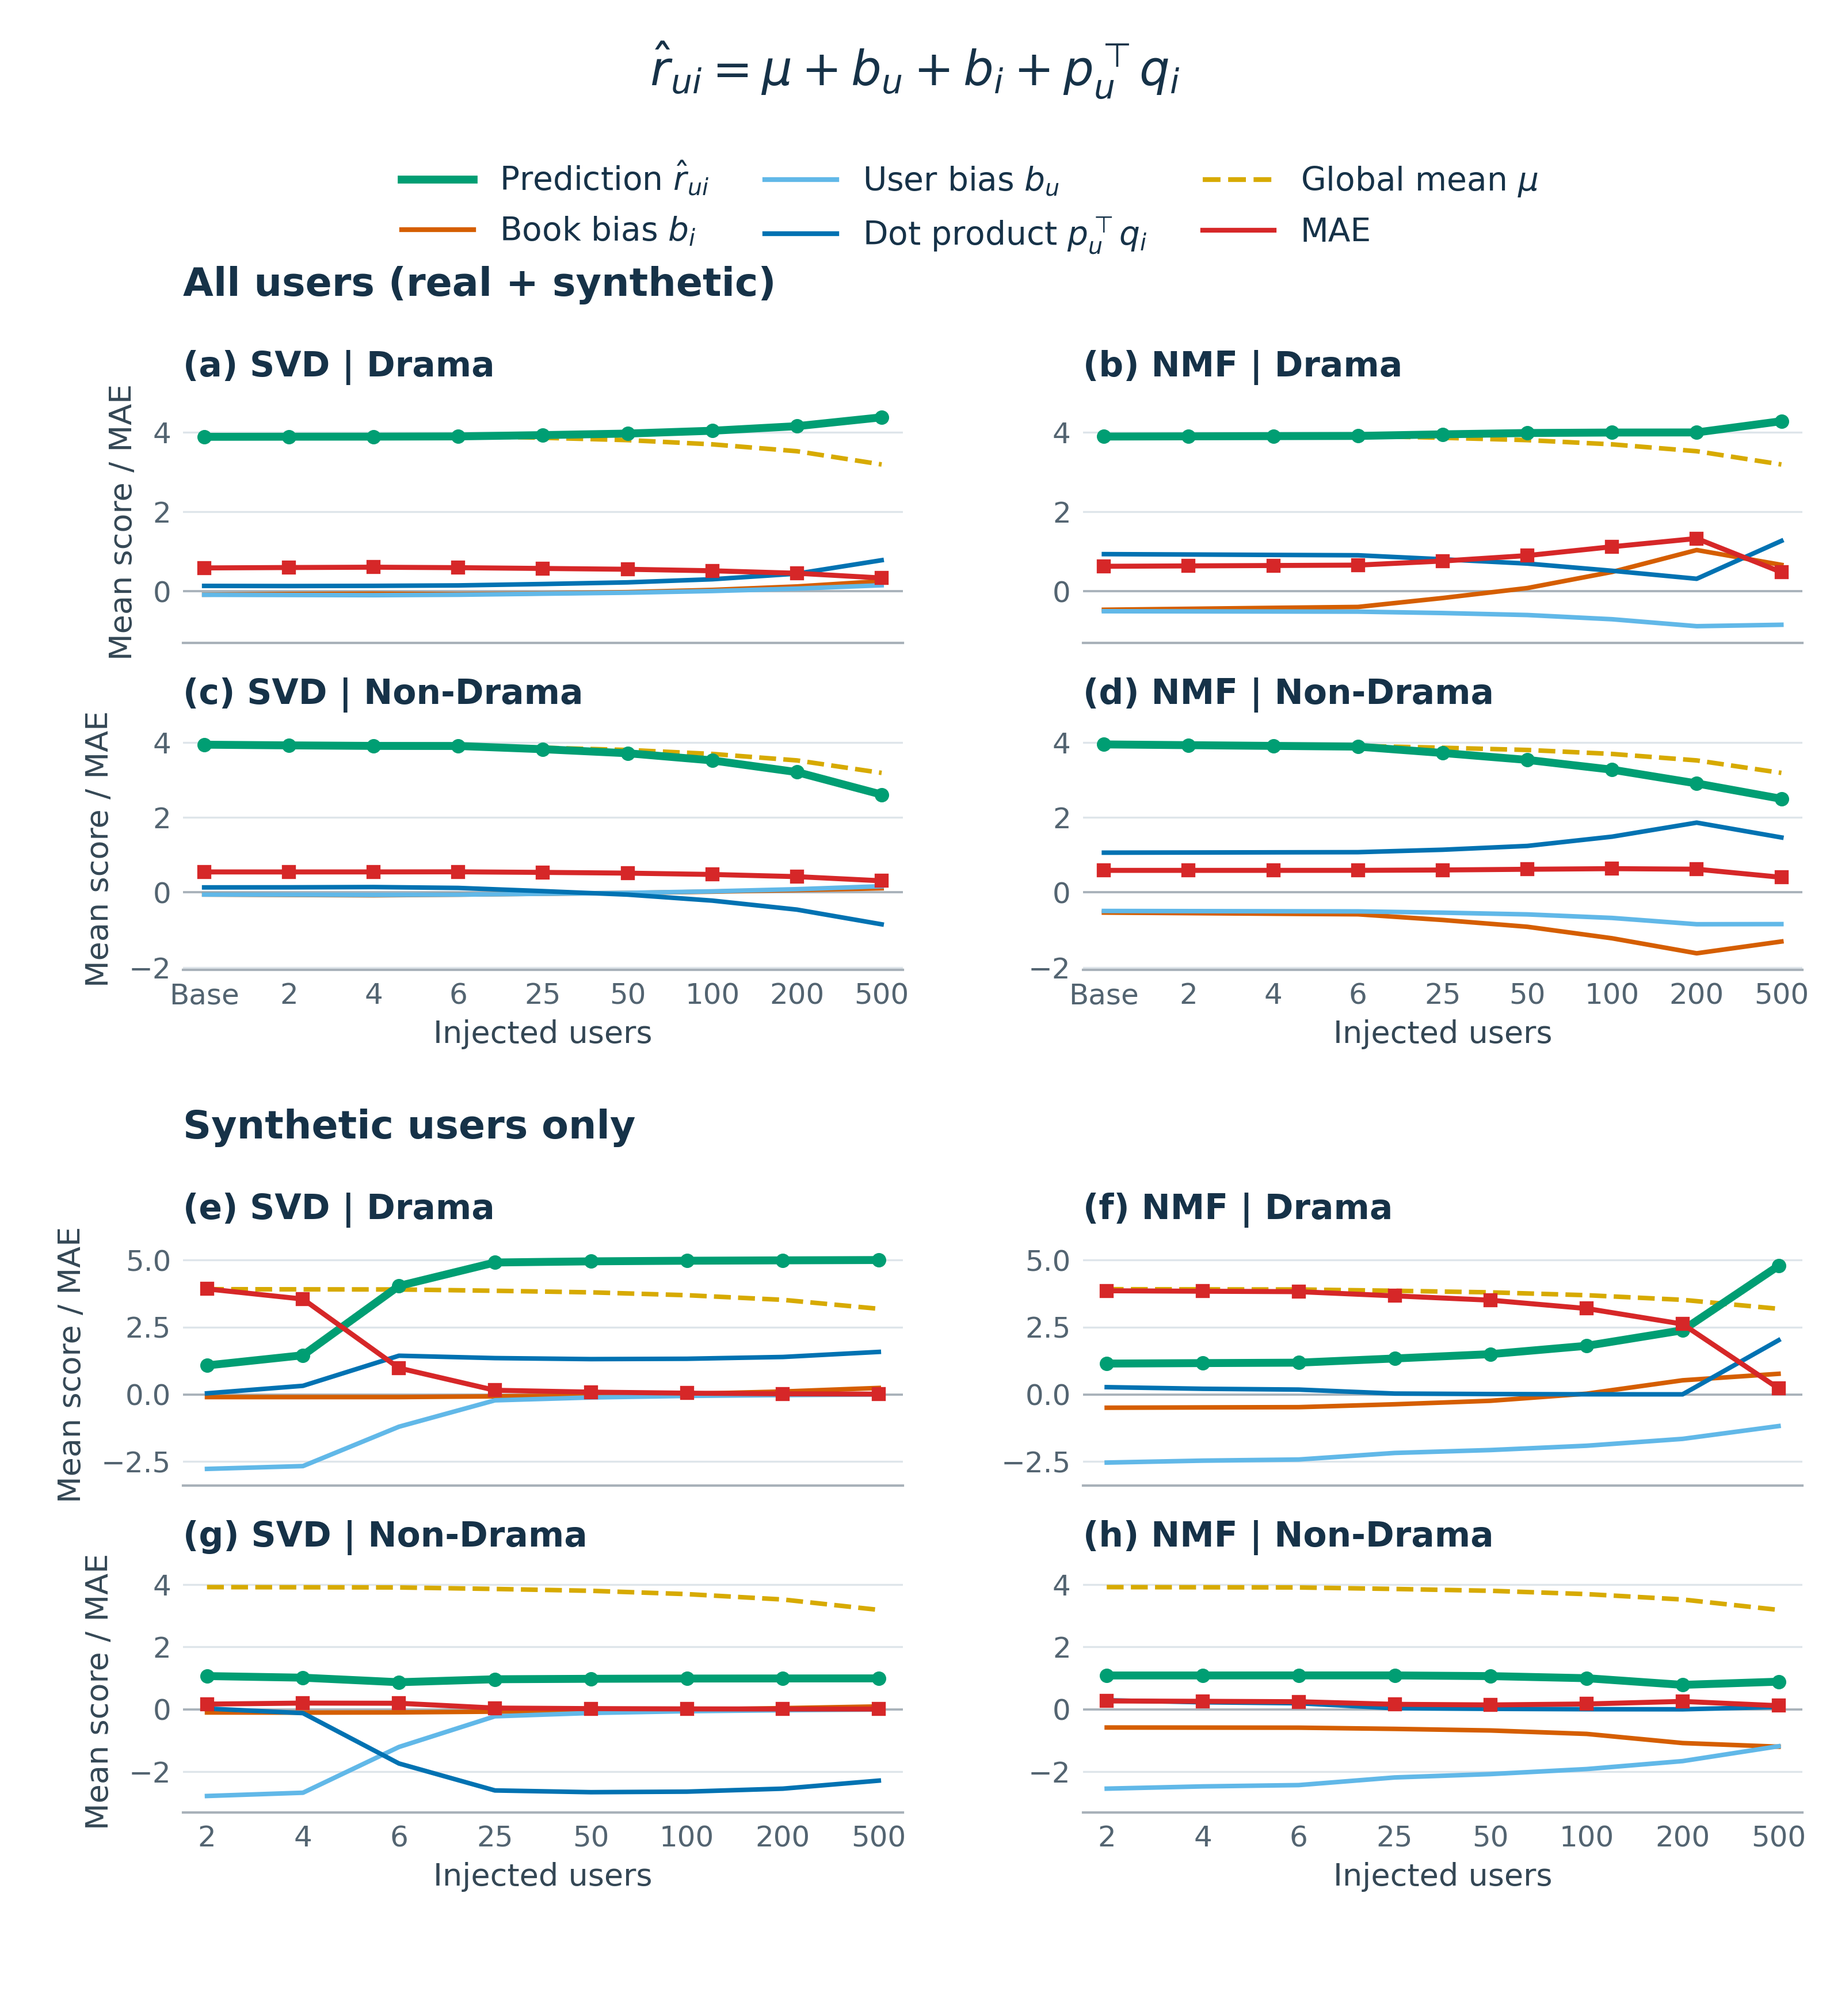
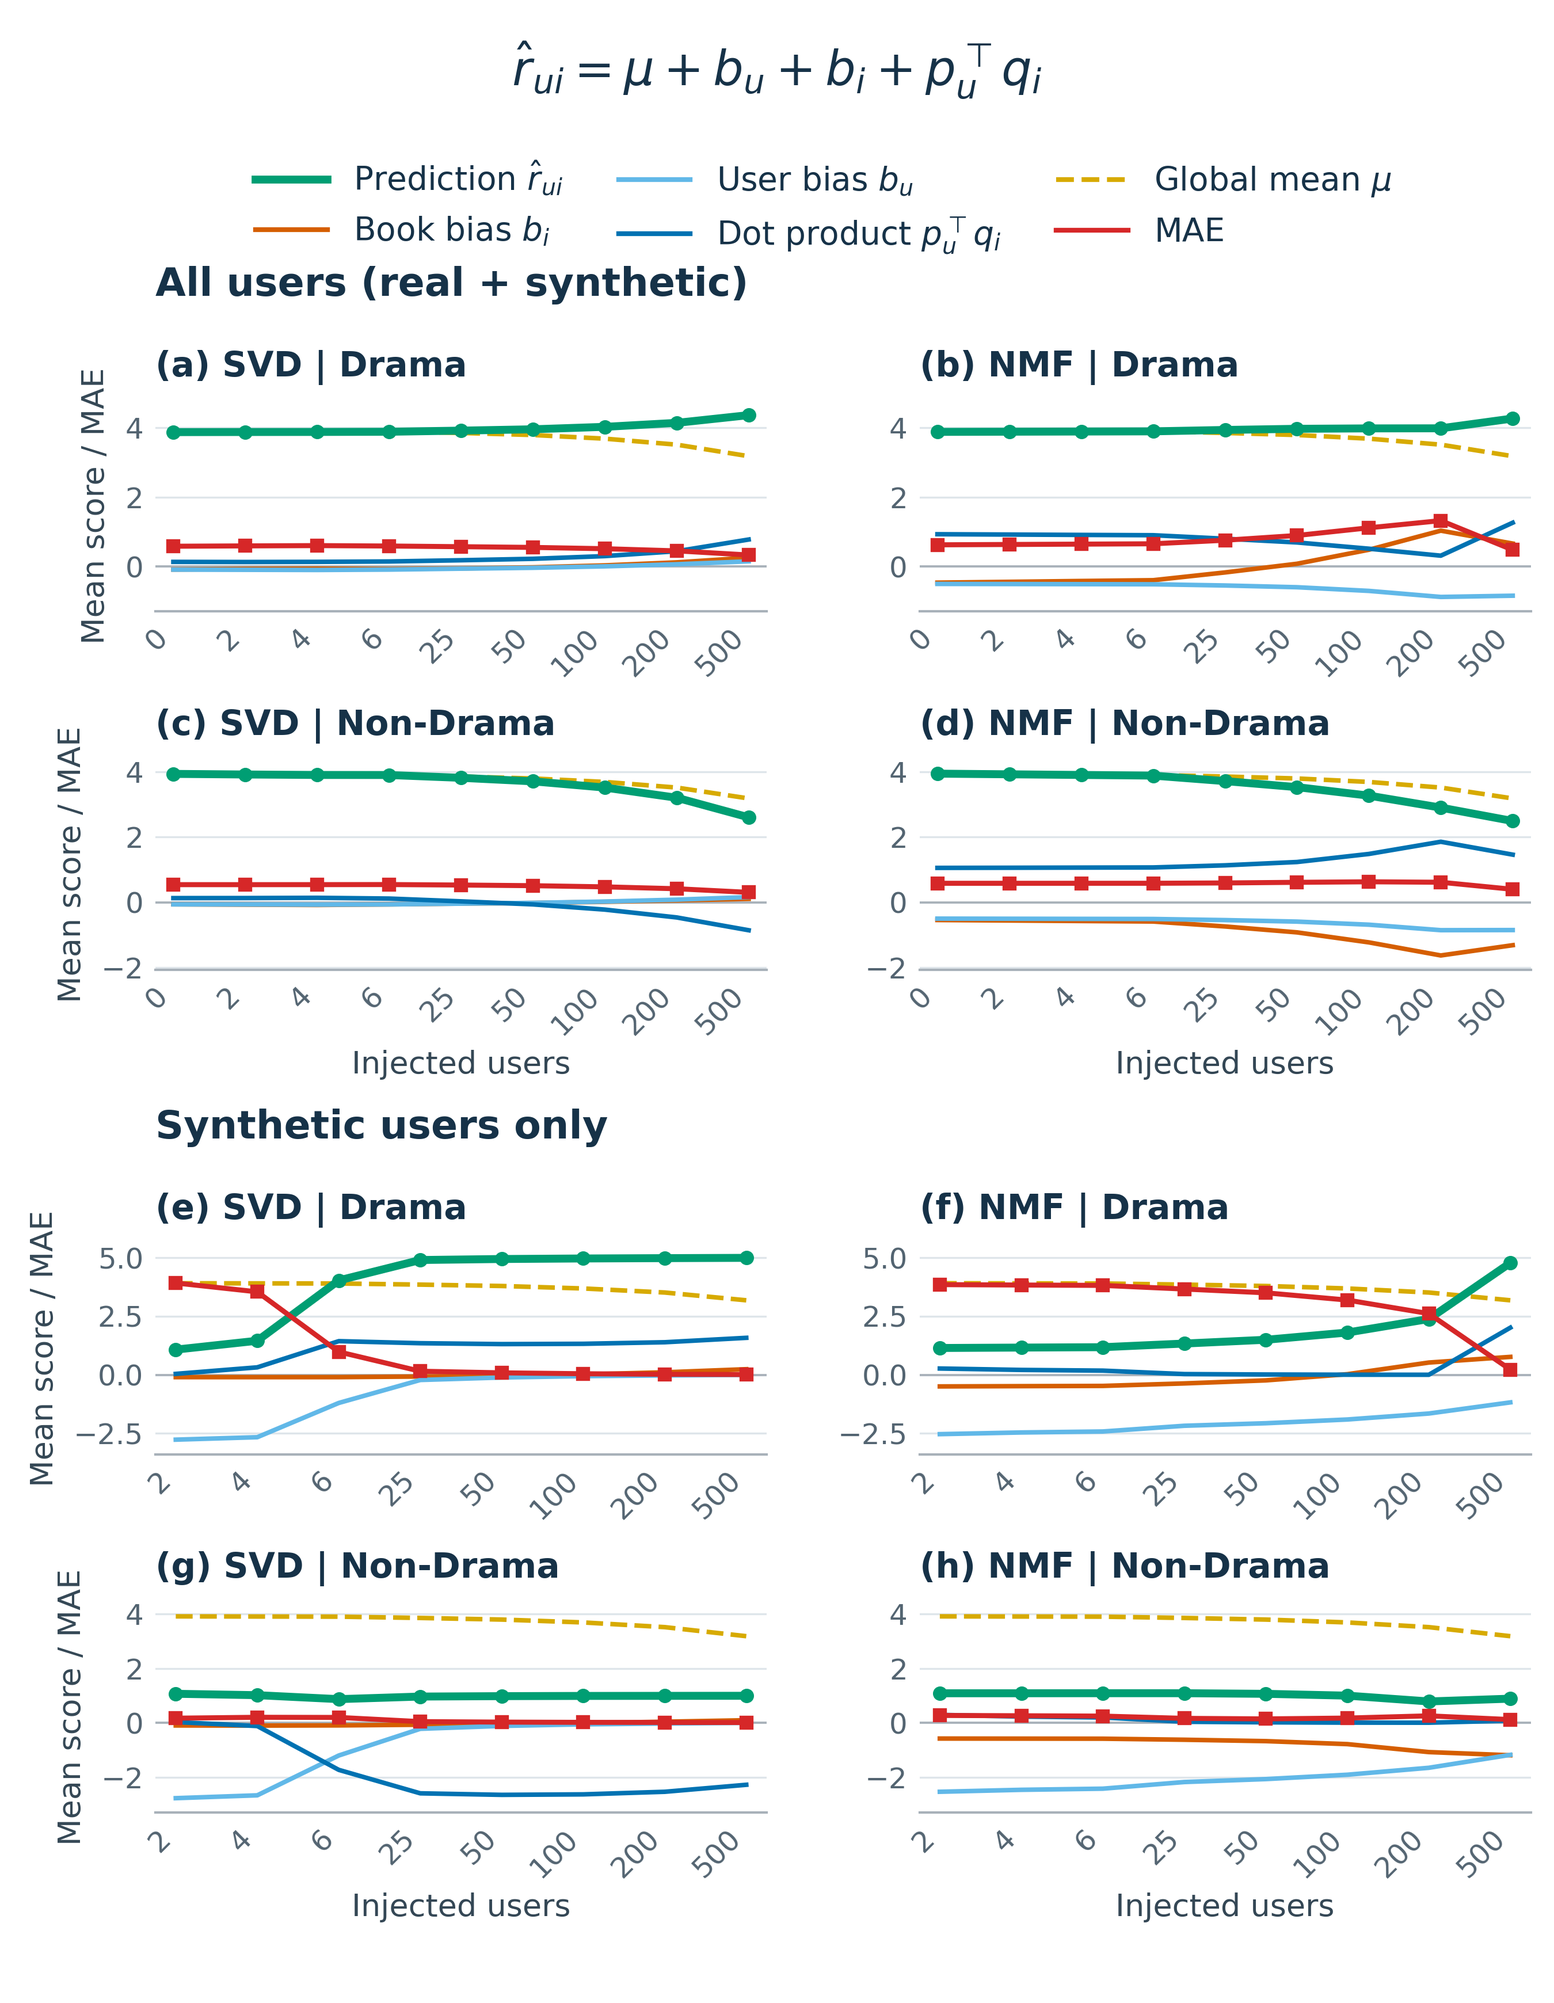
Compact three genre training panels and show every numeric x label

diff --git a/First_paper_material/notebook/build_genre_reviewer_figures.py b/First_paper_material/notebook/build_genre_reviewer_figures.py
@@ -42,19 +42,19 @@ def ticks(ns,model,bad):return [('Base' if n==0 else str(n))+('†' if model=='n
 def warning(fig,bad,small):
  if bad:fig.text(.5,.014 if small else .005,'† NMF factor sign check failed at n = '+', '.join(map(str,bad))+'. Raw results retained.',ha='center',fontsize=5.6 if small else 9,color='#9D211C')
 def eight(f,genre,folder,ns,bad):
- setup_small();fig=plt.figure(figsize=(5.3,5.8));outer=fig.add_gridspec(2,1,left=.10,right=.985,bottom=.105 if len(ns)>9 else .095,top=.80,hspace=.48)
+ setup_small();fig=plt.figure(figsize=(4.5,5.8));outer=fig.add_gridspec(2,1,left=.10,right=.985,bottom=.105 if len(ns)>9 else .095,top=.80,hspace=.48)
  for section,view in enumerate(['all_training','synthetic_training']):
-  grid=outer[section].subgridspec(2,2,hspace=.35,wspace=.25)
+  grid=outer[section].subgridspec(2,2,hspace=.70,wspace=.25)
   for row,group in enumerate(['target','non_target']):
    axs=[];values=[]
    for col,model in enumerate(['svd','nmf']):
     ax=fig.add_subplot(grid[row,col],sharey=axs[0] if axs else None);axs.append(ax);d=f[(f.view==view)&(f.group==group)&(f.model==model)&f.n_fake.isin(ns)].sort_values('n_fake');expected=ns if view=='all_training' else [n for n in ns if n];assert d.n_fake.tolist()==expected
     assert np.allclose(d.mean_prediction,d.mu+d.mean_bu+d.mean_bi+d.mean_interaction,atol=1e-10);x=np.arange(len(d));mae=d.mae.to_numpy();assert np.isfinite(mae).all() and (mae>=0).all()
     for key in ['mu','mean_bi','mean_bu','mean_interaction','mean_prediction']:ax.plot(x,d[key],color=COLORS[key],lw=1.65 if key=='mean_prediction' else .95,ls='--' if key=='mu' else '-',marker='o' if key=='mean_prediction' else None,ms=2,zorder=5 if key=='mean_prediction' else 3)
-    ax.plot(x,mae,color=COLORS['mae'],lw=1.05,marker='s',ms=1.9,zorder=6);ax.axhline(0,color='#A8B1B9',lw=.45,zorder=1);ax.grid(axis='y',color='#DEE5EA',lw=.4);ax.set_axisbelow(True);ax.set_xticks(x,ticks(expected,model,bad),rotation=55 if len(ns)>9 else 0,ha='right' if len(ns)>9 else 'center');ax.tick_params(length=0,pad=2.5,labelsize=5.5 if len(ns)>9 else 6);ax.set_xlim(-.25,len(d)-.75);ax.yaxis.set_major_locator(MaxNLocator(nbins=4));panel=chr(97+section*4+row*2+col);ax.set_title(f'({panel}) {model.upper()} | '+(genre if group=='target' else 'Non-'+genre),loc='left',pad=5)
+    ax.plot(x,mae,color=COLORS['mae'],lw=1.05,marker='s',ms=1.9,zorder=6);ax.axhline(0,color='#A8B1B9',lw=.45,zorder=1);ax.grid(axis='y',color='#DEE5EA',lw=.4);ax.set_axisbelow(True);ax.set_xticks(x,[str(n) for n in expected],rotation=45,ha='right');ax.tick_params(length=0,pad=2.5,labelsize=5.5 if len(ns)>9 else 6);ax.set_xlim(-.25,len(d)-.75);ax.yaxis.set_major_locator(MaxNLocator(nbins=4));panel=chr(97+section*4+row*2+col);ax.set_title(f'({panel}) {model.upper()} | '+(genre if group=='target' else 'Non-'+genre),loc='left',pad=5)
     if col==0:ax.set_ylabel('Mean score / MAE',labelpad=3)
     if row==1:ax.set_xlabel('Injected users',labelpad=2)
-    else:ax.tick_params(axis='x',labelbottom=False)
+    else:ax.tick_params(axis='x',labelbottom=True)
     values.append(np.r_[d[['mean_prediction','mean_bi','mean_bu','mean_interaction','mu']].to_numpy().ravel(),mae])
    vv=np.concatenate(values);pad=max((vv.max()-vv.min())*.08,.15);axs[0].set_ylim(vv.min()-pad,vv.max()+pad)
   box=outer[section].get_position(fig);fig.text(.10,box.y1+.048,'All users (real + synthetic)' if section==0 else 'Synthetic users only',ha='left',va='bottom',fontsize=8.2,fontweight='bold')
